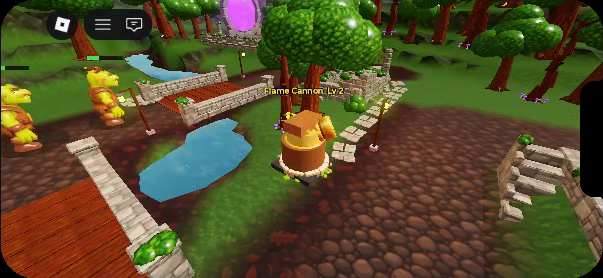
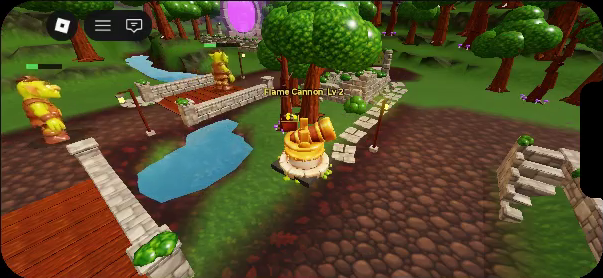
Flame Cannon levels 1-2: smoothed painted gold uploaded; projection skips empty parts; film waits for the real look
- art/blender/tower_project.py: a part with no vertices (level 1's gold sheet, every face culled as hidden) broke the
  projection; it is skipped. Level 1 re-projected from the painting already made: colour 24.1 -> 16.6.
- Levels 1-2 uploaded with the painted gold smoothed (scripts/gold_smooth.py); level 3 unchanged (its painter call
  failed and the painter is at its usage limit until 28 Nov).
- test/film: the view and outline shots wait up to 15 s for the stand-in to be hidden and mark 'look not loaded'
  otherwise; tower_rules.py leaves such levels out instead of measuring the stand-in.
- Film fl2 (with the lock, real looks): Flame levels 1-2 71.5 %, 2-3 66.5 %; stands out 40.5 / 38.7 / 39.6;
  Flame/Storm level 1 72.8 % on the top 40 % (needs 65).

diff --git a/scripts/tower_rules.py b/scripts/tower_rules.py
@@ -34,10 +34,13 @@ def main():
     os.makedirs(out, exist_ok=True)
     ff = glob.glob(os.path.join(ROOT, "tools", "ffmpeg", "*", "bin", "ffmpeg.exe"))[0]
     marks = []
+    notloaded = set()
     for ln in open(base + ".marks.txt", encoding="utf-8"):
         t, _, name = ln.strip().partition("\t")
         if name.startswith(("view ", "mask ", "low ")):
             marks.append((float(t), name))
+        elif name.startswith("look not loaded "):   # (the film saw only the stand-in: that level's shots don't count)
+            notloaded.add((name.split()[3], int(name.split()[4])))
     views, masks, lows = {}, {}, {}
     box = None
 
@@ -80,6 +83,10 @@ def main():
             lows[parts[1]] = " ".join(parts[2:])
             Image.fromarray(img).save(os.path.join(out, f"{parts[1]}_l3_low_effects.png"))
     res = {"levels": {}, "towers": {}, "stands_out": {}, "low_effects": lows, "fails": []}
+    for key in sorted(notloaded):
+        masks.pop(key, None)
+        views.pop(key, None)
+        res["fails"].append(f"{key[0]} level {key[1]}: the real look had not loaded in the film (stand-in), not measured")
 
     def iou(a, b):
         return float((a & b).sum() / max(1, (a | b).sum()))

diff --git a/art/blender/tower_project.py b/art/blender/tower_project.py
@@ -33,7 +33,7 @@ SLOT = {"pic": (0, 0), "right": (1, 0), "back": (0, 1), "left": (1, 1)}   # colu
 
 bpy.ops.wm.read_factory_settings(use_empty=True)
 bpy.ops.import_scene.fbx(filepath=fbx)
-meshes = [o for o in bpy.context.scene.objects if o.type == "MESH"]
+meshes = [o for o in bpy.context.scene.objects if o.type == "MESH" and len(o.data.vertices)]   # (an empty part, e.g. a gold sheet whose every face was culled as hidden, broke the projection)
 skins = [o for o in meshes if o.name.startswith(("Body", "Skin_"))] or meshes[:1]
 for o in meshes:
     bpy.ops.object.select_all(action="DESELECT")
